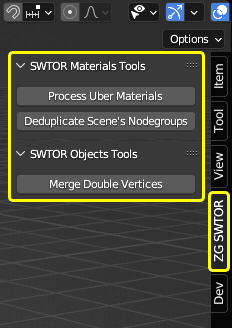
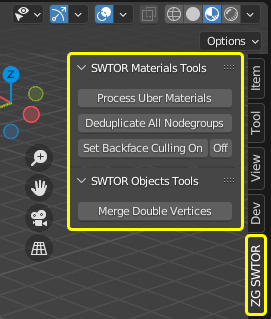
New tool: Set Backface Culling

diff --git a/set_backface_culling.py b/set_backface_culling.py
@@ -1,0 +1,78 @@
+import bpy
+
+class ZGSWTOR_OT_set_backface_culling(bpy.types.Operator):
+    bl_idname = "zgswtor.set_backface_culling"
+    bl_label = "SWTOR Tools"
+    bl_options = {'REGISTER', "UNDO"}
+    bl_description = "Sets the selected objects' materials' Backface Culling.\nIf set to on, single-sided objects' rear faces become invisible.\n\nIf the materials are shared by several objects,\nthe effect will affect those objects, too, even if not selected"
+
+    # Check that there is a selection of objects (greys-out the UI button otherwise) 
+    @classmethod
+    def poll(cls,context):
+        if bpy.context.selected_objects:
+            return True
+        else:
+            return False
+
+
+    # Property for the UI buttons to call different actions.
+    # See: https://b3d.interplanety.org/en/calling-functions-by-pressing-buttons-in-blender-custom-ui/
+    action: bpy.props.EnumProperty(
+        name="Backface Culling",
+        items=[
+            ("BACKFACE_CULLING_ON", "On", "On"),
+            ("BACKFACE_CULLING_OFF", "Off", "Off")
+            ]
+        )
+
+    # Methods doing the actual setting of Backface Culling    
+    @staticmethod
+    def set_backface_culling_on(mats):
+        for mat in mats:
+            mat.use_backface_culling = True
+
+    @staticmethod
+    def set_backface_culling_off(mats):
+        for mat in mats:
+            mat.use_backface_culling = False
+
+    
+    def execute(self, context):
+        selected_objects = [obj for obj in bpy.context.selected_editable_objects
+                            if obj.type == "MESH" and not "skeleton" in obj.name]
+        
+        if selected_objects:
+            
+            print(selected_objects)
+            mats = []
+            
+            for obj in selected_objects:
+                for mat_slot in obj.material_slots:
+                    mats.append(mat_slot.material)
+
+            if mats:
+                if self.action == "BACKFACE_CULLING_ON":
+                    self.set_backface_culling_on(mats)
+                elif self.action == "BACKFACE_CULLING_OFF":
+                    self.set_backface_culling_off(mats)
+
+            return {"FINISHED"}
+
+        else:
+            self.report({"WARNING"}, "No objects with materials were selected.")
+            return {"CANCELLED"}
+
+
+# UI is set in ui.py
+
+
+# Registrations
+
+def register():
+    bpy.utils.register_class(ZGSWTOR_OT_set_backface_culling)
+
+def unregister():
+    bpy.utils.unregister_class(ZGSWTOR_OT_set_backface_culling)
+
+if __name__ == "__main__":
+    register()

diff --git a/ui.py b/ui.py
@@ -12,15 +12,28 @@ class ZGSWTOR_PT_materials_tools(bpy.types.Panel):
 
         # process_uber_mats UI
         self.layout.operator("zgswtor.process_uber_mats", text="Process Uber Materials")
+        self.layout.prop(context.scene, "use_overwrite_bool")
 
-        # deduplicate nodegroups UI
-        self.layout.operator("zgswtor.deduplicate_nodegroups", text="Deduplicate Scene's Nodegroups")
+
+        # deduplicate_nodegroups UI
+        self.layout.operator("zgswtor.deduplicate_nodegroups", text="Deduplicate All Nodegroups")
+
+
+        # set_backface_culling UI
+        row = self.layout.row(align=True)
+        row.operator("zgswtor.set_backface_culling", text="Set Backface Culling On").action="BACKFACE_CULLING_ON"
+        
+        sub_row = row.row()  # for setting a non-50% contiguous row region
+        sub_row.scale_x = 0.35
+        sub_row.operator("zgswtor.set_backface_culling", text="Off").action="BACKFACE_CULLING_OFF"
+
+
 
         # # Shader Controls UI
         # box = self.layout.box()
-        # box.label(text="Scene-wide Shader Controls")
-        # box.prop(context.scene, "Normals strength")
-        # box.prop(context.scene, "Emissive strength")
+        # box.label(text="Scene-Wide Shader Controls")
+        # box.prop(bpy.data.node_groups["SWTOR"].nodes["Normal Map"].inputs[0].default_value, "Normals strength")
+        # # box.prop(context.scene, "Emissive strength")
 
 
 

diff --git a/process_uber_mats.py b/process_uber_mats.py
@@ -30,12 +30,20 @@ class ZGSWTOR_OT_process_uber_mats(bpy.types.Operator):
     use_overwrite_bool: bpy.props.BoolProperty(
         name="Overwrite Uber materials",
         description='Processes the selected objects Uber materials even if they have an Uber shader already, effectively "regenerating" those ones',
-        default = False )
+        default = False
+        )
 
     use_collect_colliders_bool: bpy.props.BoolProperty(
         name="Collect Collider objects",
         description='Collects all objects with an "util_collision_hidden" material in a Collection named "Collider Objects"',
-        default = True )
+        default = True
+        )
+
+    # use_IsTwoSided_bool: bpy.props.BoolProperty(
+    #     name="Use 'IsTwoSided' data",
+    #     description="Activates Backface Culling if the .mat file's 'IsTwoSided' element contains a 'False'.\nUseful when processing locations such as player ships or buildings' interiors, as their inner floors, walls and ceilings become see-through from outside, facilitating characters and props placement",
+    #     default = False
+    #     )
 
 
     # ------------------------------------------------------------------

diff --git a/__init__.py b/__init__.py
@@ -24,7 +24,8 @@ modulesNames = [
     'preferences',
     'process_uber_mats',
     'remove_doubles',
-    'deduplicate_nodegroups'
+    'deduplicate_nodegroups',
+    'set_backface_culling',
     ]
   
 modulesFullNames = {}
